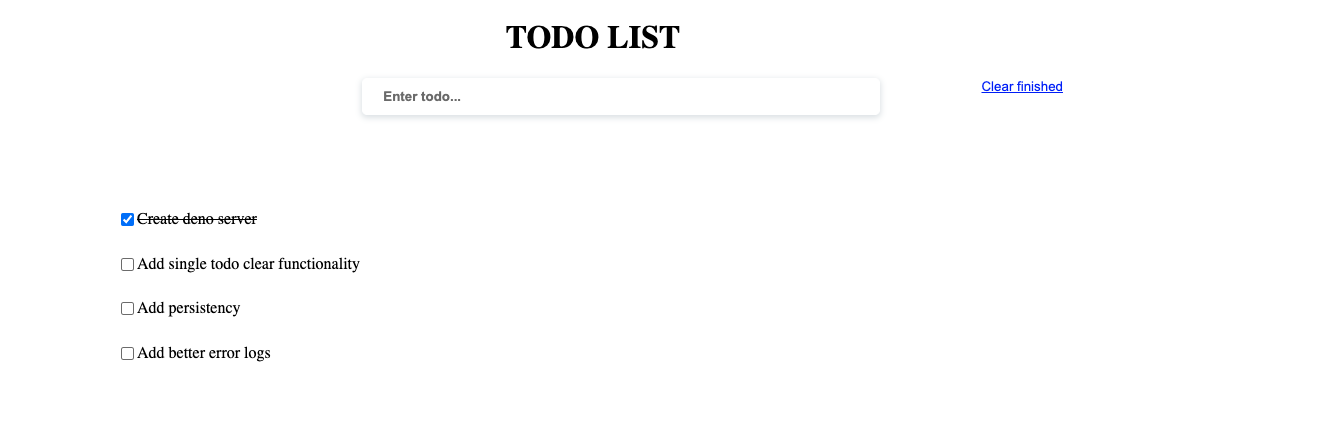
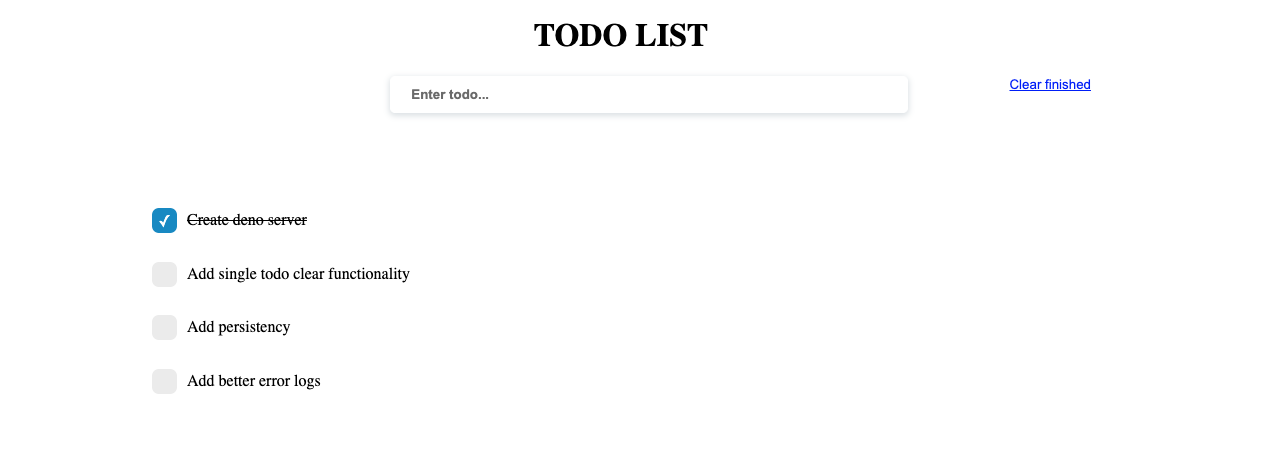
Adds some styling and transitions

diff --git a/client/dist/styles.css b/client/dist/styles.css
@@ -1,5 +1,8 @@
 .checkbox {
+  opacity: 0;
   cursor: pointer;
+  height: 0;
+  width: 0;
 }
 
 .checkbox-container {
@@ -7,8 +10,50 @@
   margin-bottom: 3%;
 }
 
-.checkbox:checked + label.checkbox-label {
+.checkmark {
+  -webkit-transition: background-color 200ms linear;
+  -ms-transition: background-color 200ms linear;
+  transition: background-color 200ms linear;
+  top: 0;
+  left: 0;
+  height: 25px;
+  width: 25px;
+  background-color: #eee;
+  border-radius: 7px;
+  margin-right: 10px;
+  cursor: pointer;
+}
+
+.checkmark:after {
+  content: "";
+  display: none;
+}
+
+.checkbox-container .checkbox:checked + .checkmark:after {
+  content: "\2713\0020";
+  color: white;
+  text-align: center;
+  padding-top: 4px;
+  display: block;
+}
+
+.checkbox-container .checkbox:checked + .checkmark {
+  background-color: #3b92cc;
+}
+
+.checkbox-container:hover input ~ .checkmark {
+  -webkit-transition: background-color 200ms linear;
+  -ms-transition: background-color 200ms linear;
+  transition: background-color 200ms linear;
+  background-color: #ccc;
+}
+
+.checkbox:checked ~ label.checkbox-label {
   text-decoration: line-through;
+}
+
+.checkbox-label {
+  padding-top: 3px;
 }
 
 input.searchbar {
@@ -22,6 +67,16 @@ input.searchbar {
   margin-bottom: 10%;
   box-shadow: 0 2px 6px 1px #e1e5e8;
   color: #20455e;
+  -webkit-transition: box-shadow 200ms linear;
+  -ms-transition:  box-shadow 200ms linear;
+  transition:  box-shadow 200ms linear;
+}
+
+input.searchbar:hover {
+  -webkit-transition: box-shadow 200ms linear;
+  -ms-transition:  box-shadow 200ms linear;
+  transition:  box-shadow 200ms linear;
+  box-shadow: 0 4px 6px 1px #e1e5e8;
 }
 
 button.clear-button {

diff --git a/client/dist/index.js b/client/dist/index.js
@@ -5985,6 +5985,7 @@ var elm$virtual_dom$VirtualDom$toHandlerInt = function (handler) {
 var elm$html$Html$div = _VirtualDom_node('div');
 var elm$html$Html$input = _VirtualDom_node('input');
 var elm$html$Html$label = _VirtualDom_node('label');
+var elm$html$Html$span = _VirtualDom_node('span');
 var elm$virtual_dom$VirtualDom$text = _VirtualDom_text;
 var elm$html$Html$text = elm$virtual_dom$VirtualDom$text;
 var elm$json$Json$Encode$bool = _Json_wrap;
@@ -6044,6 +6045,14 @@ var author$project$Checkbox$checkbox = F3(
 							elm$html$Html$Events$onClick(msg),
 							elm$html$Html$Attributes$checked(isDone),
 							elm$html$Html$Attributes$class('checkbox')
+						]),
+					_List_Nil),
+					A2(
+					elm$html$Html$span,
+					_List_fromArray(
+						[
+							elm$html$Html$Attributes$class('checkmark'),
+							elm$html$Html$Events$onClick(msg)
 						]),
 					_List_Nil),
 					A2(
